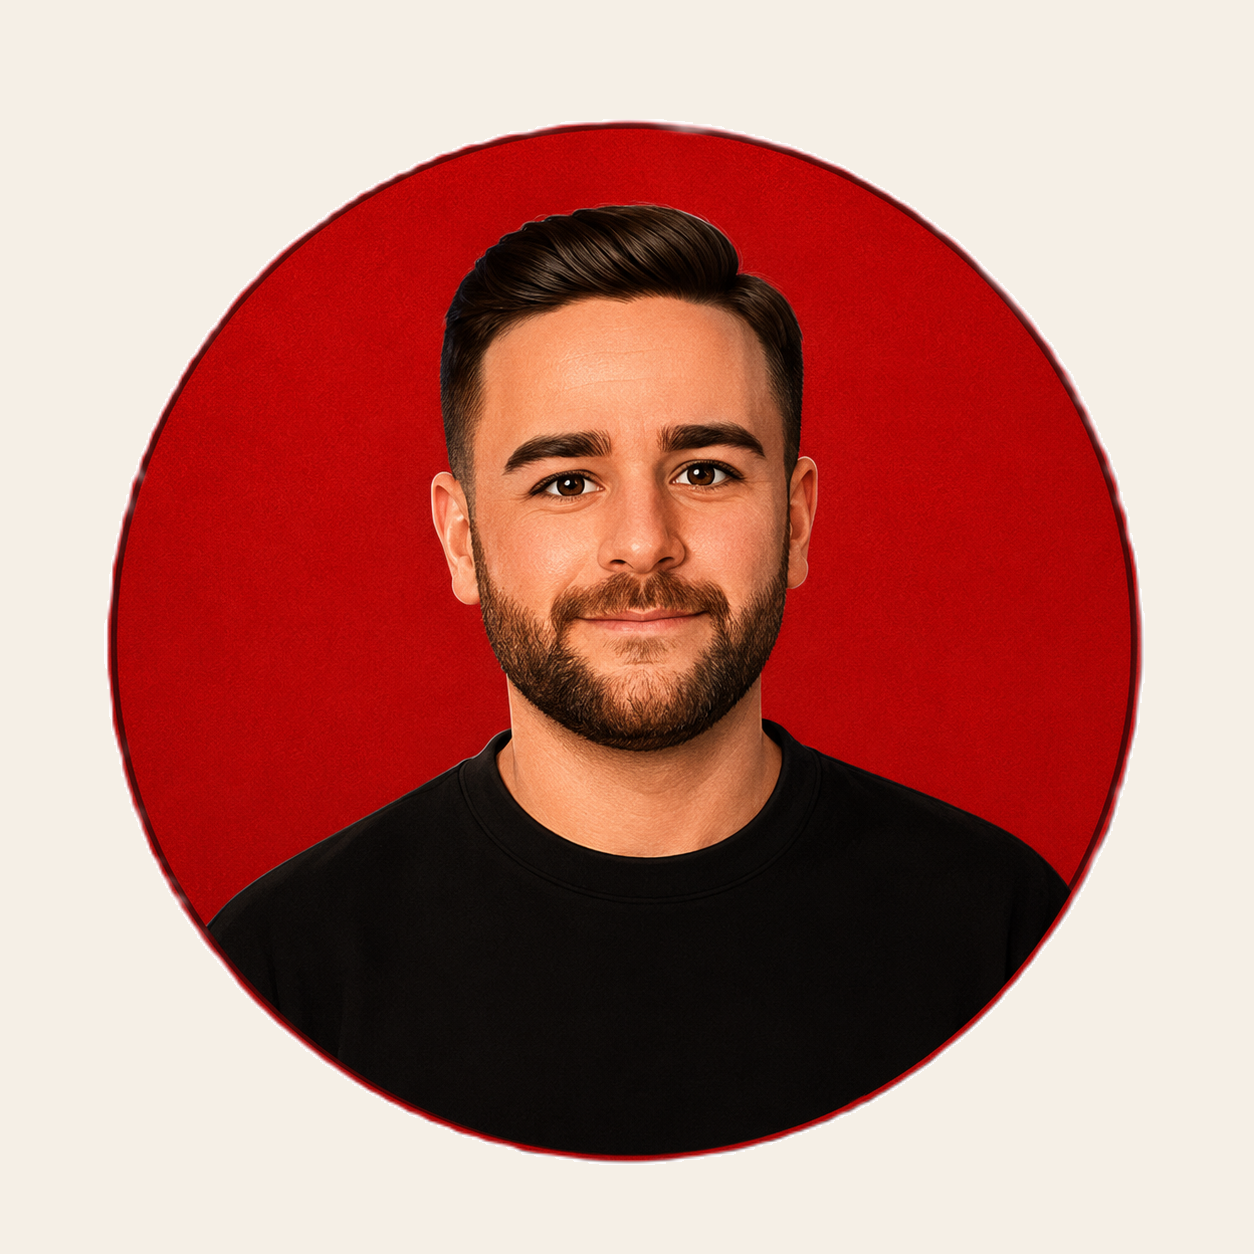
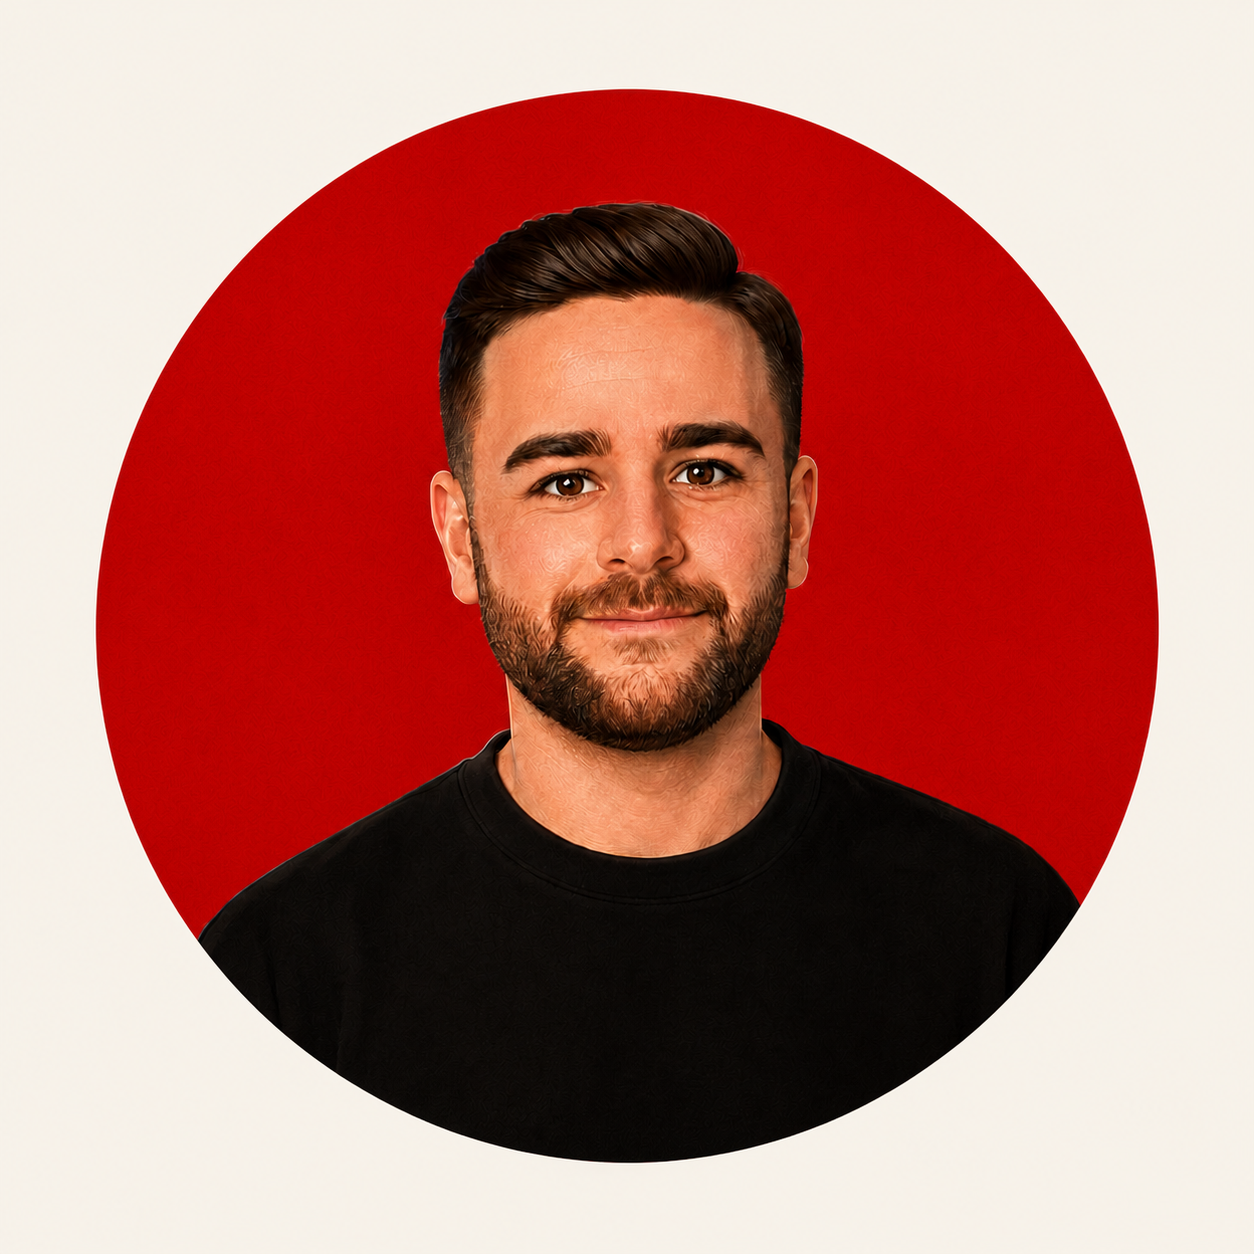
feat(mobile): polish mobile layout and typography
- Compact mobile footer with social links and copyright on all pages
- Fix hamburger menu spacing so content shifts down naturally
- Apply Space Grotesk typography to the mobile portfolio
- Remove Vercel Analytics and related console errors
- Update global styles and metadata
- Fix ESLint flat config compatibility
- Verify production build succeeds

diff --git a/components/mobile-portfolio.tsx b/components/mobile-portfolio.tsx
@@ -40,7 +40,7 @@ export default function MobilePortfolio({
     : "bg-[#f5efe6] text-zinc-950";
 
   const footerClass = isDarkMode
-    ? "bg-[#171d2a] text-white"
+    ? "bg-[#111827] text-white"
     : "bg-[#e7dccd] text-zinc-950";
 
   const menuClass = isDarkMode
@@ -70,9 +70,7 @@ export default function MobilePortfolio({
 
   return (
     <main
-      className={`flex flex-col ${pageClass} ${
-        isHomePage ? "h-svh overflow-hidden" : "min-h-screen overflow-x-hidden"
-      }`}
+      className={`mobile-portfolio-font flex min-h-svh flex-col overflow-x-hidden ${pageClass}`}
     >
       <style>
         {`
@@ -158,24 +156,34 @@ export default function MobilePortfolio({
             <div
               className={`mt-3 rounded-2xl border px-4 py-3 text-center shadow-xl ${menuClass}`}
             >
-              <MenuItem label="BLOG" onClick={() => goToPage("blog")} />
-              <MenuItem label="PROJECTS" onClick={() => goToPage("projects")} />
-              <MenuItem label="ABOUT" onClick={() => goToPage("about")} />
-              <MenuItem label="USES" onClick={() => goToPage("uses")} />
+              <MenuItem
+                label="BLOG"
+                active={currentPage === "blog"}
+                onClick={() => goToPage("blog")}
+              />
+              <MenuItem
+                label="PROJECTS"
+                active={currentPage === "projects"}
+                onClick={() => goToPage("projects")}
+              />
+              <MenuItem
+                label="ABOUT"
+                active={currentPage === "about"}
+                onClick={() => goToPage("about")}
+              />
+              <MenuItem
+                label="USES"
+                active={currentPage === "uses"}
+                onClick={() => goToPage("uses")}
+              />
             </div>
           )}
         </div>
       </header>
 
-      <section
-        className={
-          isHomePage
-            ? "min-h-0 flex-1 overflow-hidden"
-            : "flex-1 overflow-visible"
-        }
-      >
+      <section className="flex-1">
         {isHomePage ? (
-          <div className="flex h-full items-center justify-center px-5 text-center">
+          <div className="flex min-h-[calc(100svh-7rem)] items-center justify-center px-5 py-8 text-center">
             <div className="mx-auto max-w-2xl">
               <div className="mobile-image-in mx-auto mb-8 h-[min(54vw,17rem)] w-[min(54vw,17rem)] overflow-hidden rounded-full">
                 <img
@@ -188,7 +196,7 @@ export default function MobilePortfolio({
                 />
               </div>
 
-              <div className="mobile-text-in">
+              <div className="mobile-text-in mobile-home-text">
                 <p
                   className={`mx-auto max-w-xl text-[15px] font-medium leading-8 sm:text-lg ${mutedText}`}
                 >
@@ -215,16 +223,17 @@ export default function MobilePortfolio({
         )}
       </section>
 
-      <footer className={`shrink-0 text-center ${footerClass}`}>
-        <div className="px-5 py-5">
-          <h2 className="mb-4 text-xl font-semibold">You can find me at</h2>
-
-          <div className="flex items-center justify-center gap-6">
+      <footer className={`shrink-0 py-2 ${footerClass}`}>
+        <div className="mx-auto flex max-w-7xl flex-wrap items-center justify-center gap-x-5 gap-y-2 px-4 sm:px-6">
+          <div
+            className="flex items-center justify-center gap-4"
+            aria-label="Social links"
+          >
             <SocialButton
               label="GitHub"
               onClick={() => openLink("https://github.com/ShayanShahani")}
             >
-              <Github className="h-8 w-8" />
+              <Github className="h-5 w-5" />
             </SocialButton>
 
             <SocialButton
@@ -233,11 +242,11 @@ export default function MobilePortfolio({
                 openLink("https://www.linkedin.com/in/shayan-shahani/")
               }
             >
-              <Linkedin className="h-8 w-8" />
+              <Linkedin className="h-5 w-5" />
             </SocialButton>
 
             <SocialButton label="Email" onClick={sendEmail}>
-              <Mail className="h-8 w-8" />
+              <Mail className="h-5 w-5" />
             </SocialButton>
 
             <SocialButton
@@ -246,42 +255,46 @@ export default function MobilePortfolio({
                 openLink("https://www.youtube.com/@shayan.shahani")
               }
             >
-              <Youtube className="h-8 w-8" />
+              <Youtube className="h-5 w-5" />
             </SocialButton>
           </div>
-        </div>
 
-        {!isHomePage && (
-          <div
-            className={`border-t px-5 py-3 text-sm ${
-              isDarkMode ? "border-white/10" : "border-black/10"
-            } ${footerMutedText}`}
-          >
+          <div className={`text-sm ${footerMutedText} sm:ml-auto`}>
             Copyright © 2026{" "}
             <button
               type="button"
               onClick={() => goToPage("home")}
               className={`font-medium ${
                 isDarkMode
-                  ? "text-white hover:text-zinc-300"
+                  ? "text-zinc-100 hover:text-zinc-300"
                   : "text-zinc-950 hover:text-zinc-600"
               }`}
             >
               Shayan
             </button>
           </div>
-        )}
+        </div>
       </footer>
     </main>
   );
 }
 
-function MenuItem({ label, onClick }: { label: string; onClick: () => void }) {
+function MenuItem({
+  label,
+  active,
+  onClick,
+}: {
+  label: string;
+  active: boolean;
+  onClick: () => void;
+}) {
   return (
     <button
       type="button"
       onClick={onClick}
-      className="block w-full rounded-xl px-3 py-3 text-sm font-semibold uppercase tracking-[0.25em] transition hover:bg-white/10"
+      className={`block w-full rounded-xl px-3 py-3 text-sm font-semibold uppercase tracking-[0.25em] transition ${
+        active ? "bg-white/10" : "hover:bg-white/10"
+      }`}
     >
       {label}
     </button>

diff --git a/app/globals.css b/app/globals.css
@@ -14,9 +14,28 @@
   --background-end-rgb: 0, 0, 0;
 }
 
+html {
+  scroll-behavior: smooth;
+}
+
 body {
   color: rgb(var(--foreground-rgb));
-  background: linear-gradient(to bottom, transparent, rgb(var(--background-end-rgb))) rgb(var(--background-start-rgb));
+  background: linear-gradient(
+      to bottom,
+      transparent,
+      rgb(var(--background-end-rgb))
+    )
+    rgb(var(--background-start-rgb));
+}
+
+.mobile-portfolio-font {
+  font-family: var(--font-space-grotesk), system-ui, sans-serif;
+  letter-spacing: -0.01em;
+}
+
+.mobile-home-text {
+  font-family: var(--font-space-grotesk), system-ui, sans-serif;
+  letter-spacing: -0.01em;
 }
 
 /* Hide scrollbar for Chrome, Safari and Opera */

diff --git a/app/layout.tsx b/app/layout.tsx
@@ -1,11 +1,17 @@
 import type { Metadata } from "next";
+import { Space_Grotesk } from "next/font/google";
 import "./globals.css";
-import { Analytics } from "@vercel/analytics/react";
+
+const spaceGrotesk = Space_Grotesk({
+  subsets: ["latin"],
+  weight: ["400", "500", "600", "700"],
+  variable: "--font-space-grotesk",
+});
 
 export const metadata: Metadata = {
   title: "Shayan Shahani",
   description:
-    "Personal portfolio of Shayan Shahani, showcasing web development projects and skills",
+    "Personal portfolio of Shayan Shahani, showcasing web development projects, skills, and software engineering experience.",
 };
 
 export default function RootLayout({
@@ -15,9 +21,7 @@ export default function RootLayout({
 }>) {
   return (
     <html lang="en">
-      <body>
-        {children} <Analytics />
-      </body>
+      <body className={`${spaceGrotesk.variable} antialiased`}>{children}</body>
     </html>
   );
 }